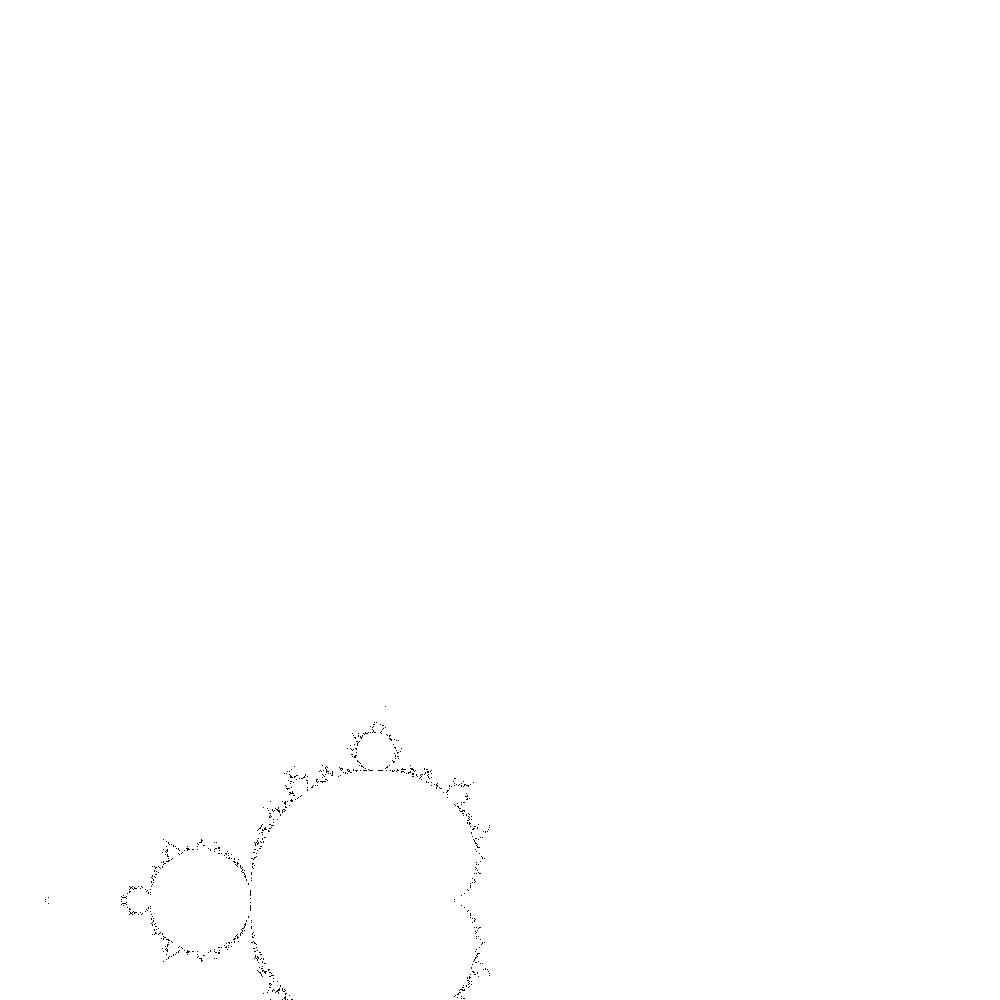
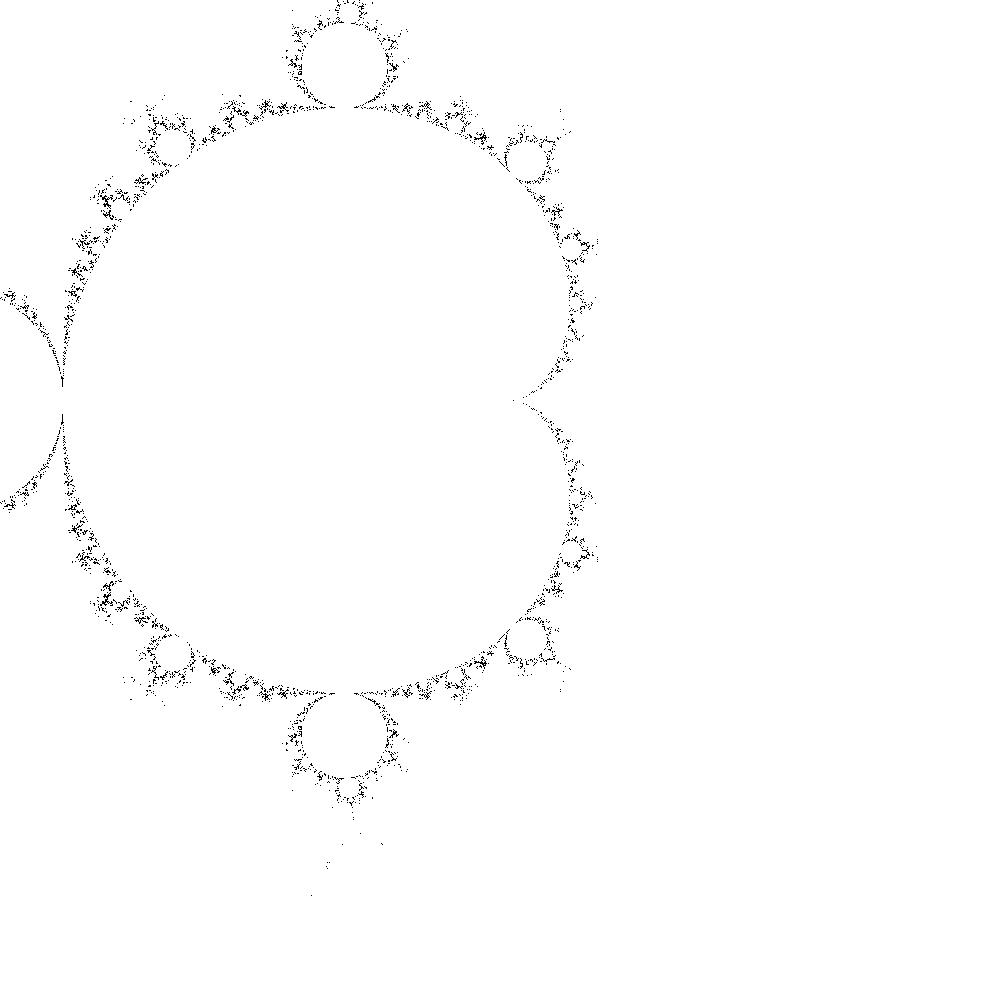
feat: getImage added to buttons + minor algo fix

diff --git a/src/main/resources/templates/home.html b/src/main/resources/templates/home.html
@@ -7,17 +7,17 @@
     </div>
     <div class="block">
         <div class=row>
-            <button id="top" class="btn btn-primary solo">Haut</button>
+            <button id="top" value="up" onclick="getImage(this.value)" class="btn btn-primary solo">Haut</button>
         </div>
         <div class="row">
             <div class="col-4"></div>  <!--  déso c dégueu mé ca marc :3  -->
-            <button id="left " class="btn btn-primary gauche">Gauche</button>
-            <button id="zoom" class="btn btn-primary">Zoom</button>
-            <button id="right" class="btn btn-primary droite">Droite</button>
+            <button id="left " value="left" onclick="getImage(this.value)" class="btn btn-primary gauche">Gauche</button>
+            <button id="zoom" value="zoom" onclick="getImage(this.value)" class="btn btn-primary">Zoom</button>
+            <button id="right" value="right" onclick="getImage(this.value)" class="btn btn-primary droite">Droite</button>
             <div class="col-4"></div>
         </div>
         <div class="row">
-            <button id="down" class="btn btn-primary solo">Bas</button>
+            <button id="down" value="down" onclick="getImage(this.value)" class="btn btn-primary solo">Bas</button>
         </div>
     </div>
     <script src="/js/javascript.js"></script>

diff --git a/src/main/resources/static/js/javascript.js b/src/main/resources/static/js/javascript.js
@@ -2,19 +2,4 @@ function getImage(direction) {
     return fetch('/getImage'+'?direction='+direction)
     .then(response => response.blob())
     .then(data => document.getElementById("mandelbrotImage").src=URL.createObjectURL(data));
-
-//    fetch('/getImage', {
-//      method: 'POST',
-//      headers: { "Content-Type" : "text/plain" },
-//      body: JSON.stringify(direction) //zoom, dezoom, haut, bas, droite, gauche...
-//    })
-//    .then(response => response.blob())
-//    .then(data => document.getElementById("mandelbrotImage").src=URL.createObjectURL(data));
 }
-
-getImage("up").then(() => {
-    getImage("down");
-});
-
-
-//btn appelle get image

diff --git a/src/main/java/org/example/MandelController.java b/src/main/java/org/example/MandelController.java
@@ -13,7 +13,7 @@ public class MandelController {
     }
 
     public void switchDirection(String direction) {
-        final int pas = 500;
+        final int pas = 250;
         double zoom = 200;
         int posX = -400;
         int posY = -400;
@@ -26,10 +26,10 @@ public class MandelController {
                 RenderImage(zoom, posX, posY-pas);
                 break;
             case "left" :
-                RenderImage(zoom, posX-pas, posY);
+                RenderImage(zoom, posX+pas, posY);
                 break;
             case "right" :
-                RenderImage(zoom, posX+pas, posY);
+                RenderImage(zoom, posX-pas, posY);
                 break;
             case "zoom" :
                 RenderImage(zoom+pas, posX, posY);
